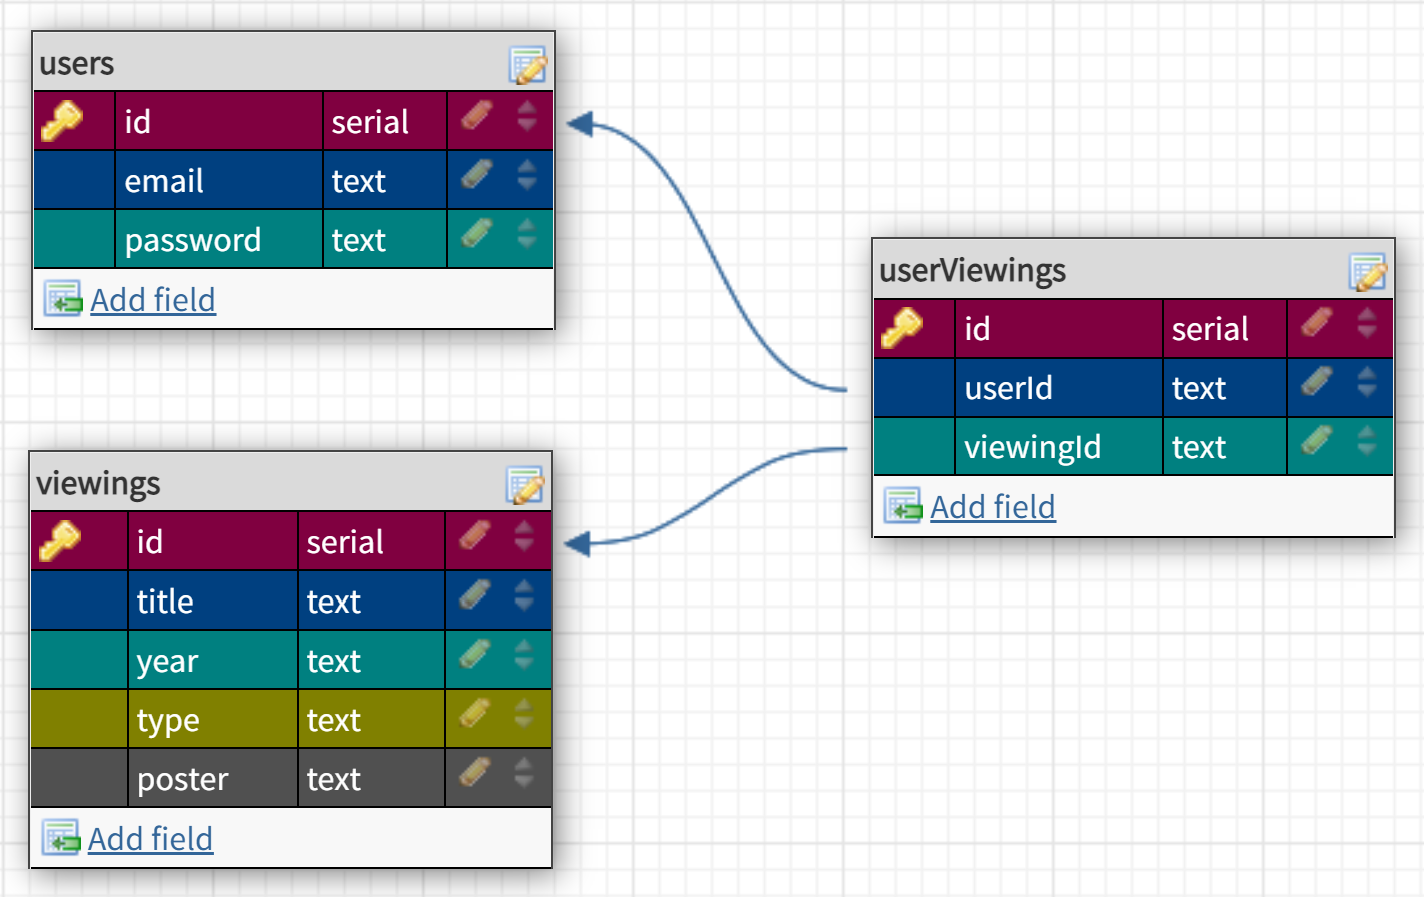
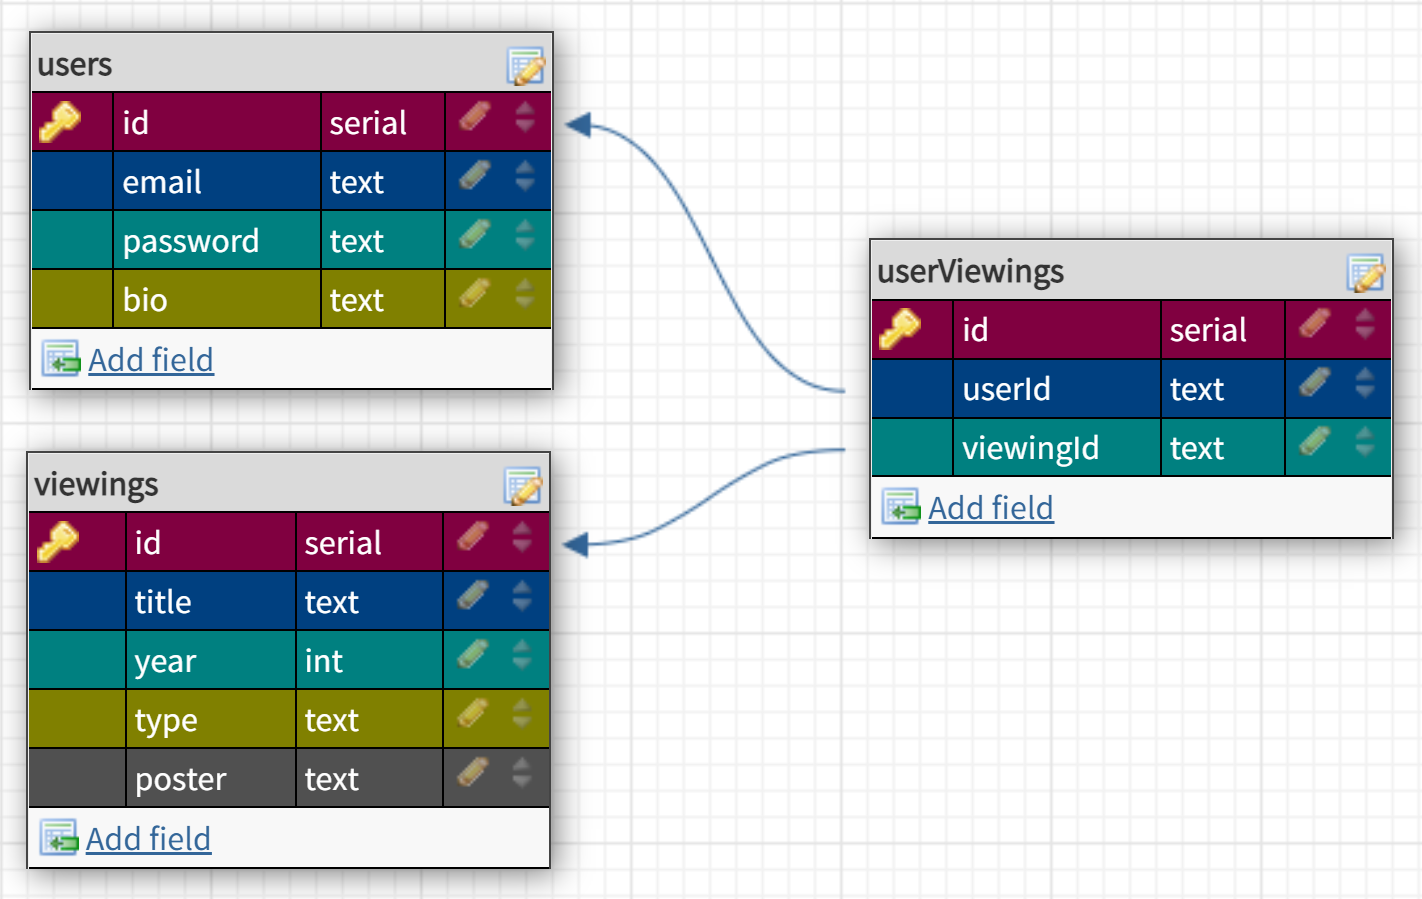
Midday Monday, README plus some

diff --git a/README.md b/README.md
@@ -23,14 +23,14 @@ A site on which you can search for movies and shows from the IMDB API and save s
 - On the history page, users can remove listings in case they pushed them there by accident
 
 ## HTTP Routes
-  post('/users/signup', ...)        // signup user
-  post('/users/login', ...)         // login user
-  post('/users/verify, ...)         // verify user
-   get('/viewings', ...)            // search shows and series
-  post('/viewings/save', ...)       // save listing to profile
-  post('/viewings/watch', ...)      // move listing to history page
-delete('/viewings/remove', ...)     // remove listing from profile
-// add a PUT here
+  post('/users/signup', ...)        // 1, signup user
+  post('/users/login', ...)         // 2, login user
+  post('/users/verify, ...)         // 3, verify user
+   put('/users/bio, ...)            // 4, update user's bio
+   get('/viewings', ...)            // 5, search shows and series
+  post('/viewings/save', ...)       // 6, save listing to profile
+  post('/viewings/watch', ...)      // 7, move listing to history page
+delete('/viewings/remove', ...)     // 8, remove listing from profile
 
 ## Completion timeline
 - Finish Signup, Login, and backend server by EOD Monday
